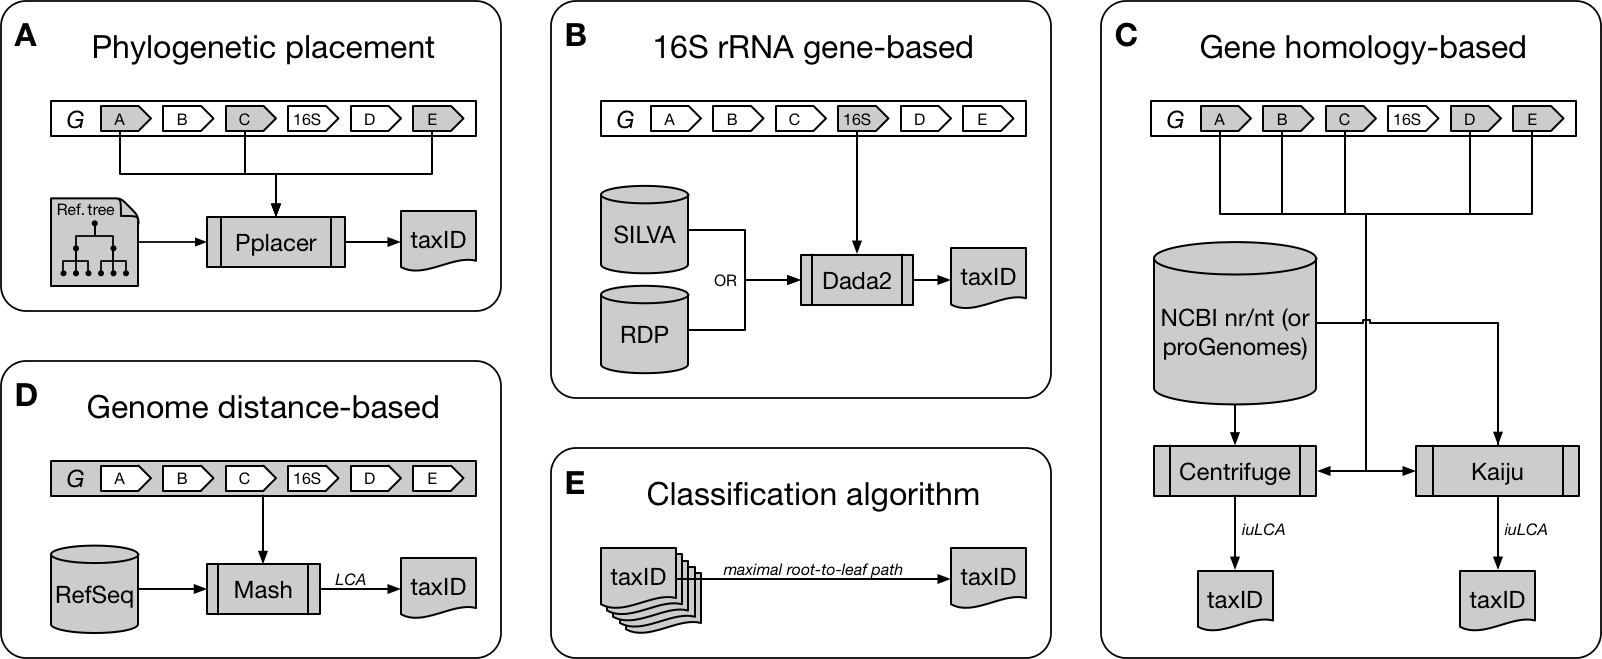
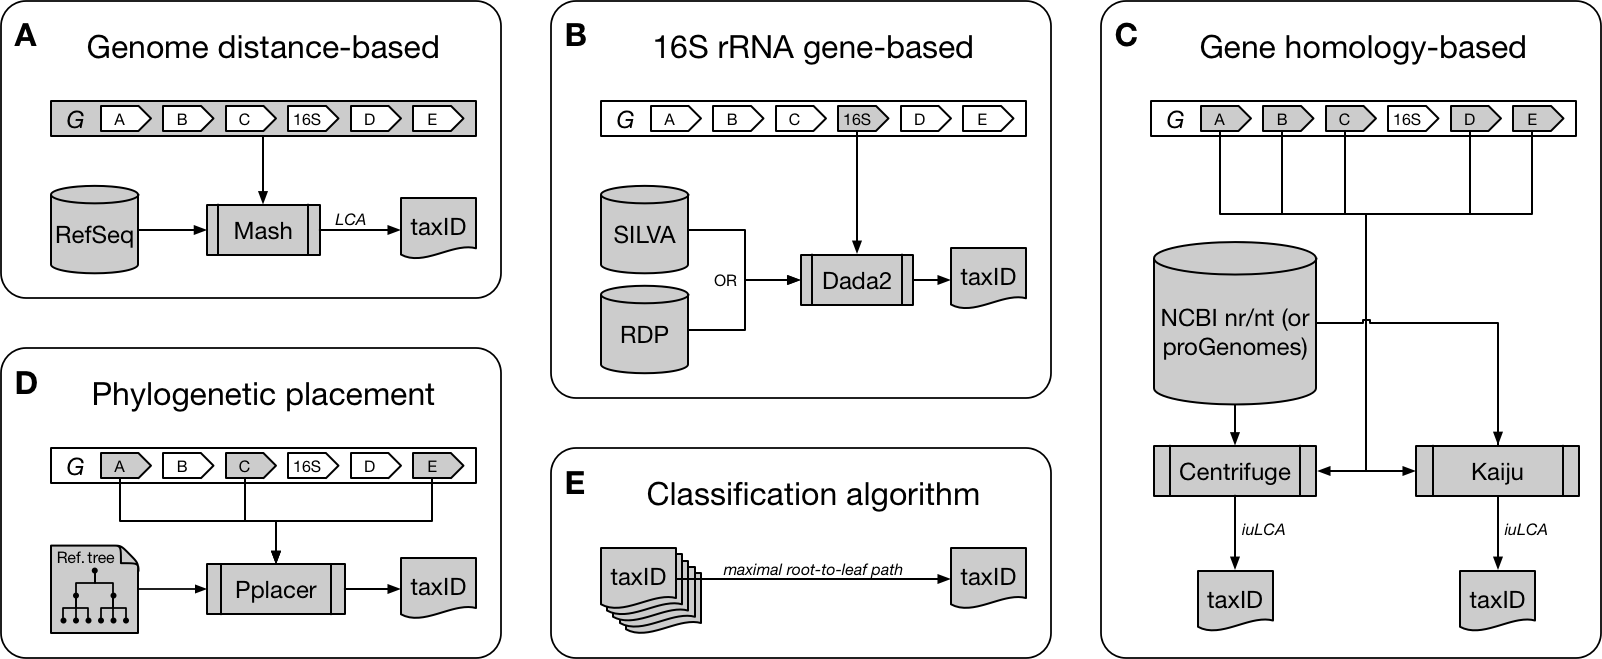
Update workflow figure

diff --git a/README.md b/README.md
@@ -3,7 +3,7 @@
 ![The CAMITAX taxonomic assignment workflow](workflow.png "The CAMITAX taxonomic assignment workflow")
 
 **The CAMITAX taxonomic assignment workflow.**
-CAMITAX assigns one NCBI Taxonomy ID (taxID) to each input genome *G* by combining phylogenetic placement with 16S rRNA gene-, gene homology-, and genome distance-based taxonomic assignments.
+CAMITAX assigns one NCBI Taxonomy ID (taxID) to each input genome *G* by combining genome distance-, 16S rRNA gene-, and gene homology-based taxonomic assignments with phylogenetic placement.
 
 ## Requirements
 
